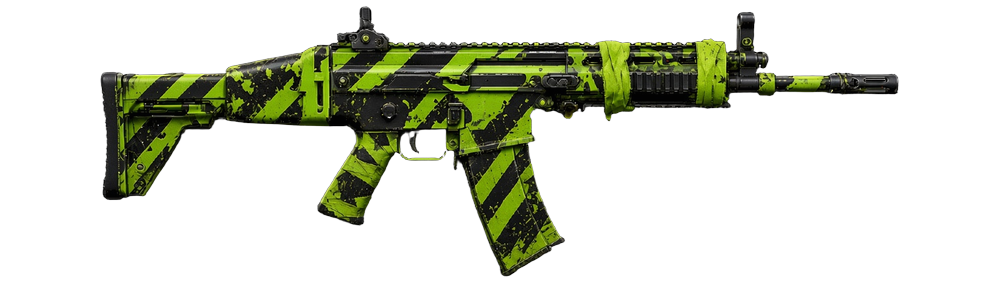
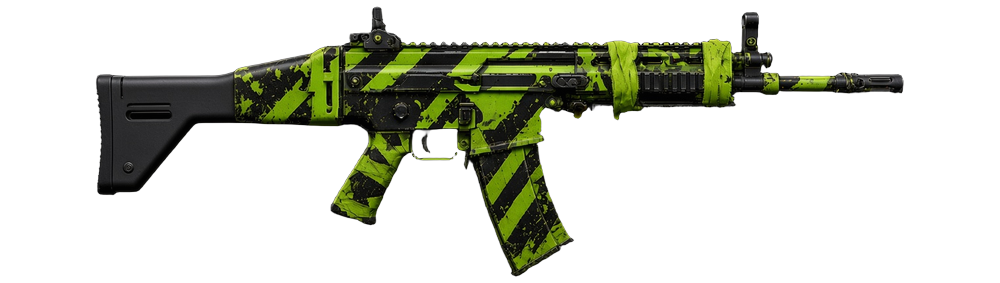
Rename remade patches to real Squad guns; redo FAL art.

Changed region(s): [[0.093, 0.0283, 0.93, 0.9894]]

diff --git a/src/lib/profilePatches.ts b/src/lib/profilePatches.ts
@@ -86,15 +86,15 @@ export const PROFILE_PATCH_OPTIONS = [
   {
     id: "bd-faction-sbord-scar",
     file: "bd-faction-sbord-fal.png",
-    label: "SCAR «Скрап-протокол»",
-    tip: "SCAR «Скрап-протокол»",
+    label: "FN FAL «Скрап-протокол»",
+    tip: "FN FAL «Скрап-протокол»",
     gate: "creator" as const,
   },
   {
     id: "bd-faction-staya-svd",
     file: "bd-faction-staya-ak12.png",
-    label: "AUG «Лунная Стая»",
-    tip: "AUG «Лунная Стая»",
+    label: "AK-12 «Лунная Стая»",
+    tip: "AK-12 «Лунная Стая»",
     gate: "creator" as const,
   },
   {
@@ -107,8 +107,8 @@ export const PROFILE_PATCH_OPTIONS = [
   {
     id: "bd-faction-uley-pkm",
     file: "bd-faction-uley-qbz191.png",
-    label: "G36 «Янтарь Улья»",
-    tip: "G36 «Янтарь Улья»",
+    label: "QBZ-191 «Янтарь Улья»",
+    tip: "QBZ-191 «Янтарь Улья»",
     gate: "creator" as const,
   },
 ] as const;
@@ -165,7 +165,7 @@ export function profilePatchUrl(
       : id === "creator-event-scar-lemon" || id === "creator-event-saiga-apple"
         ? "?v=fs6"
         : id.startsWith("bd-faction-")
-          ? "?v=bd8"
+          ? "?v=bd9"
           : "";
   return `/bp-assets/${opt.file}${bust}`;
 }
